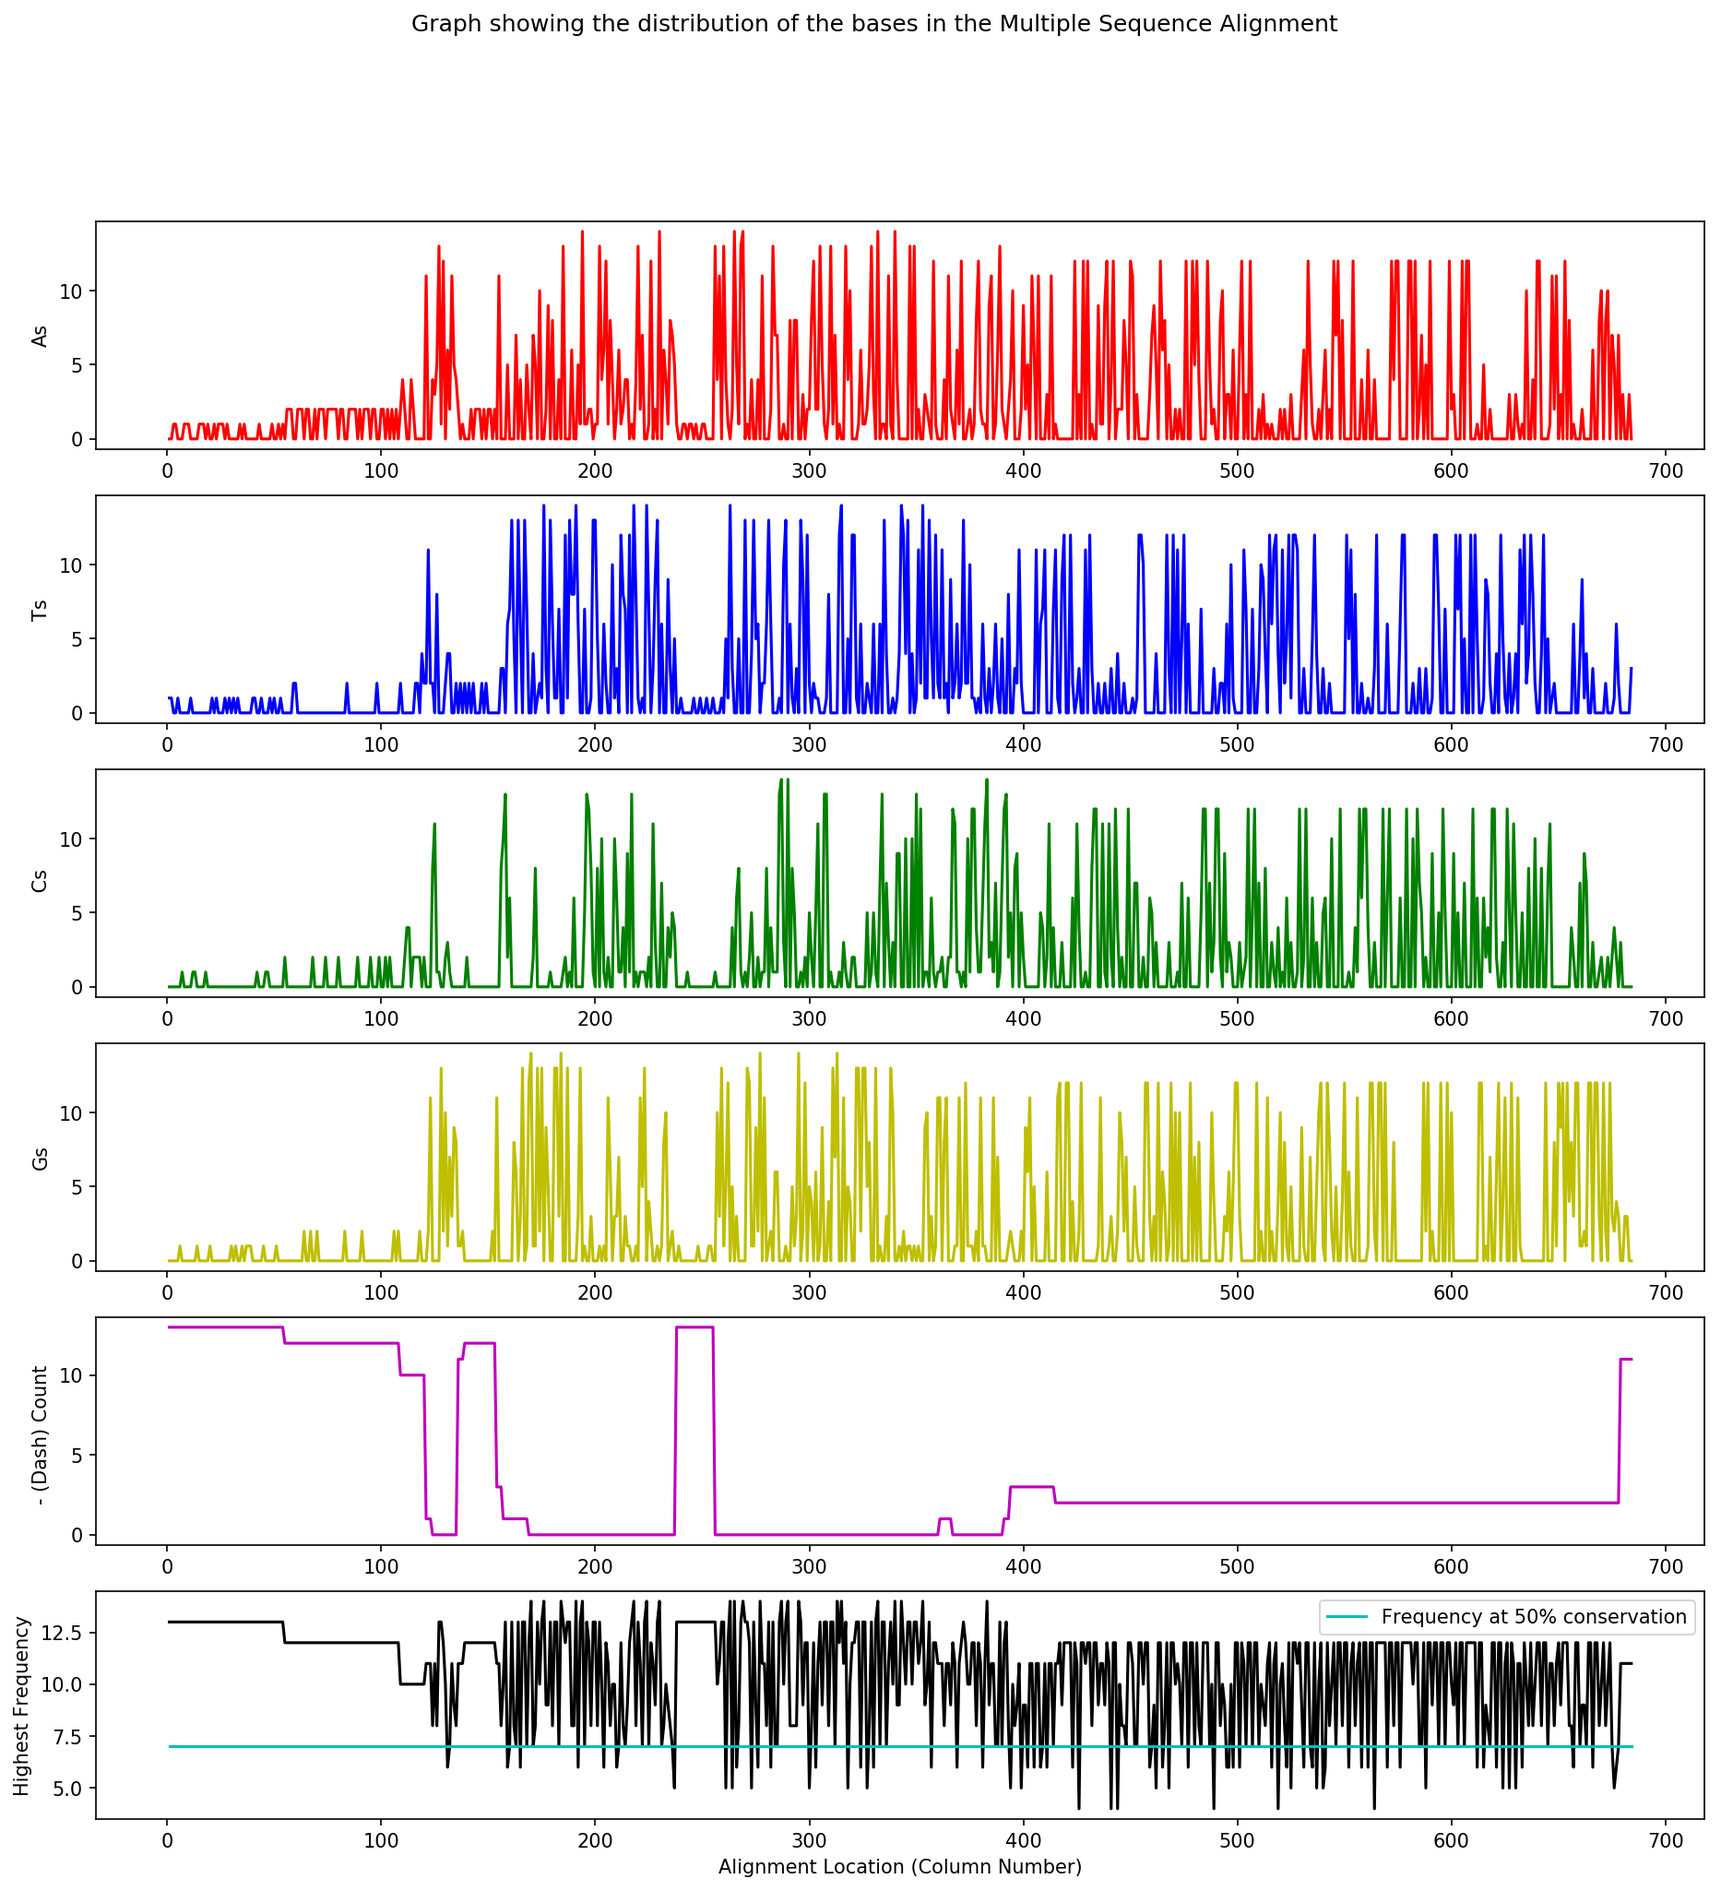
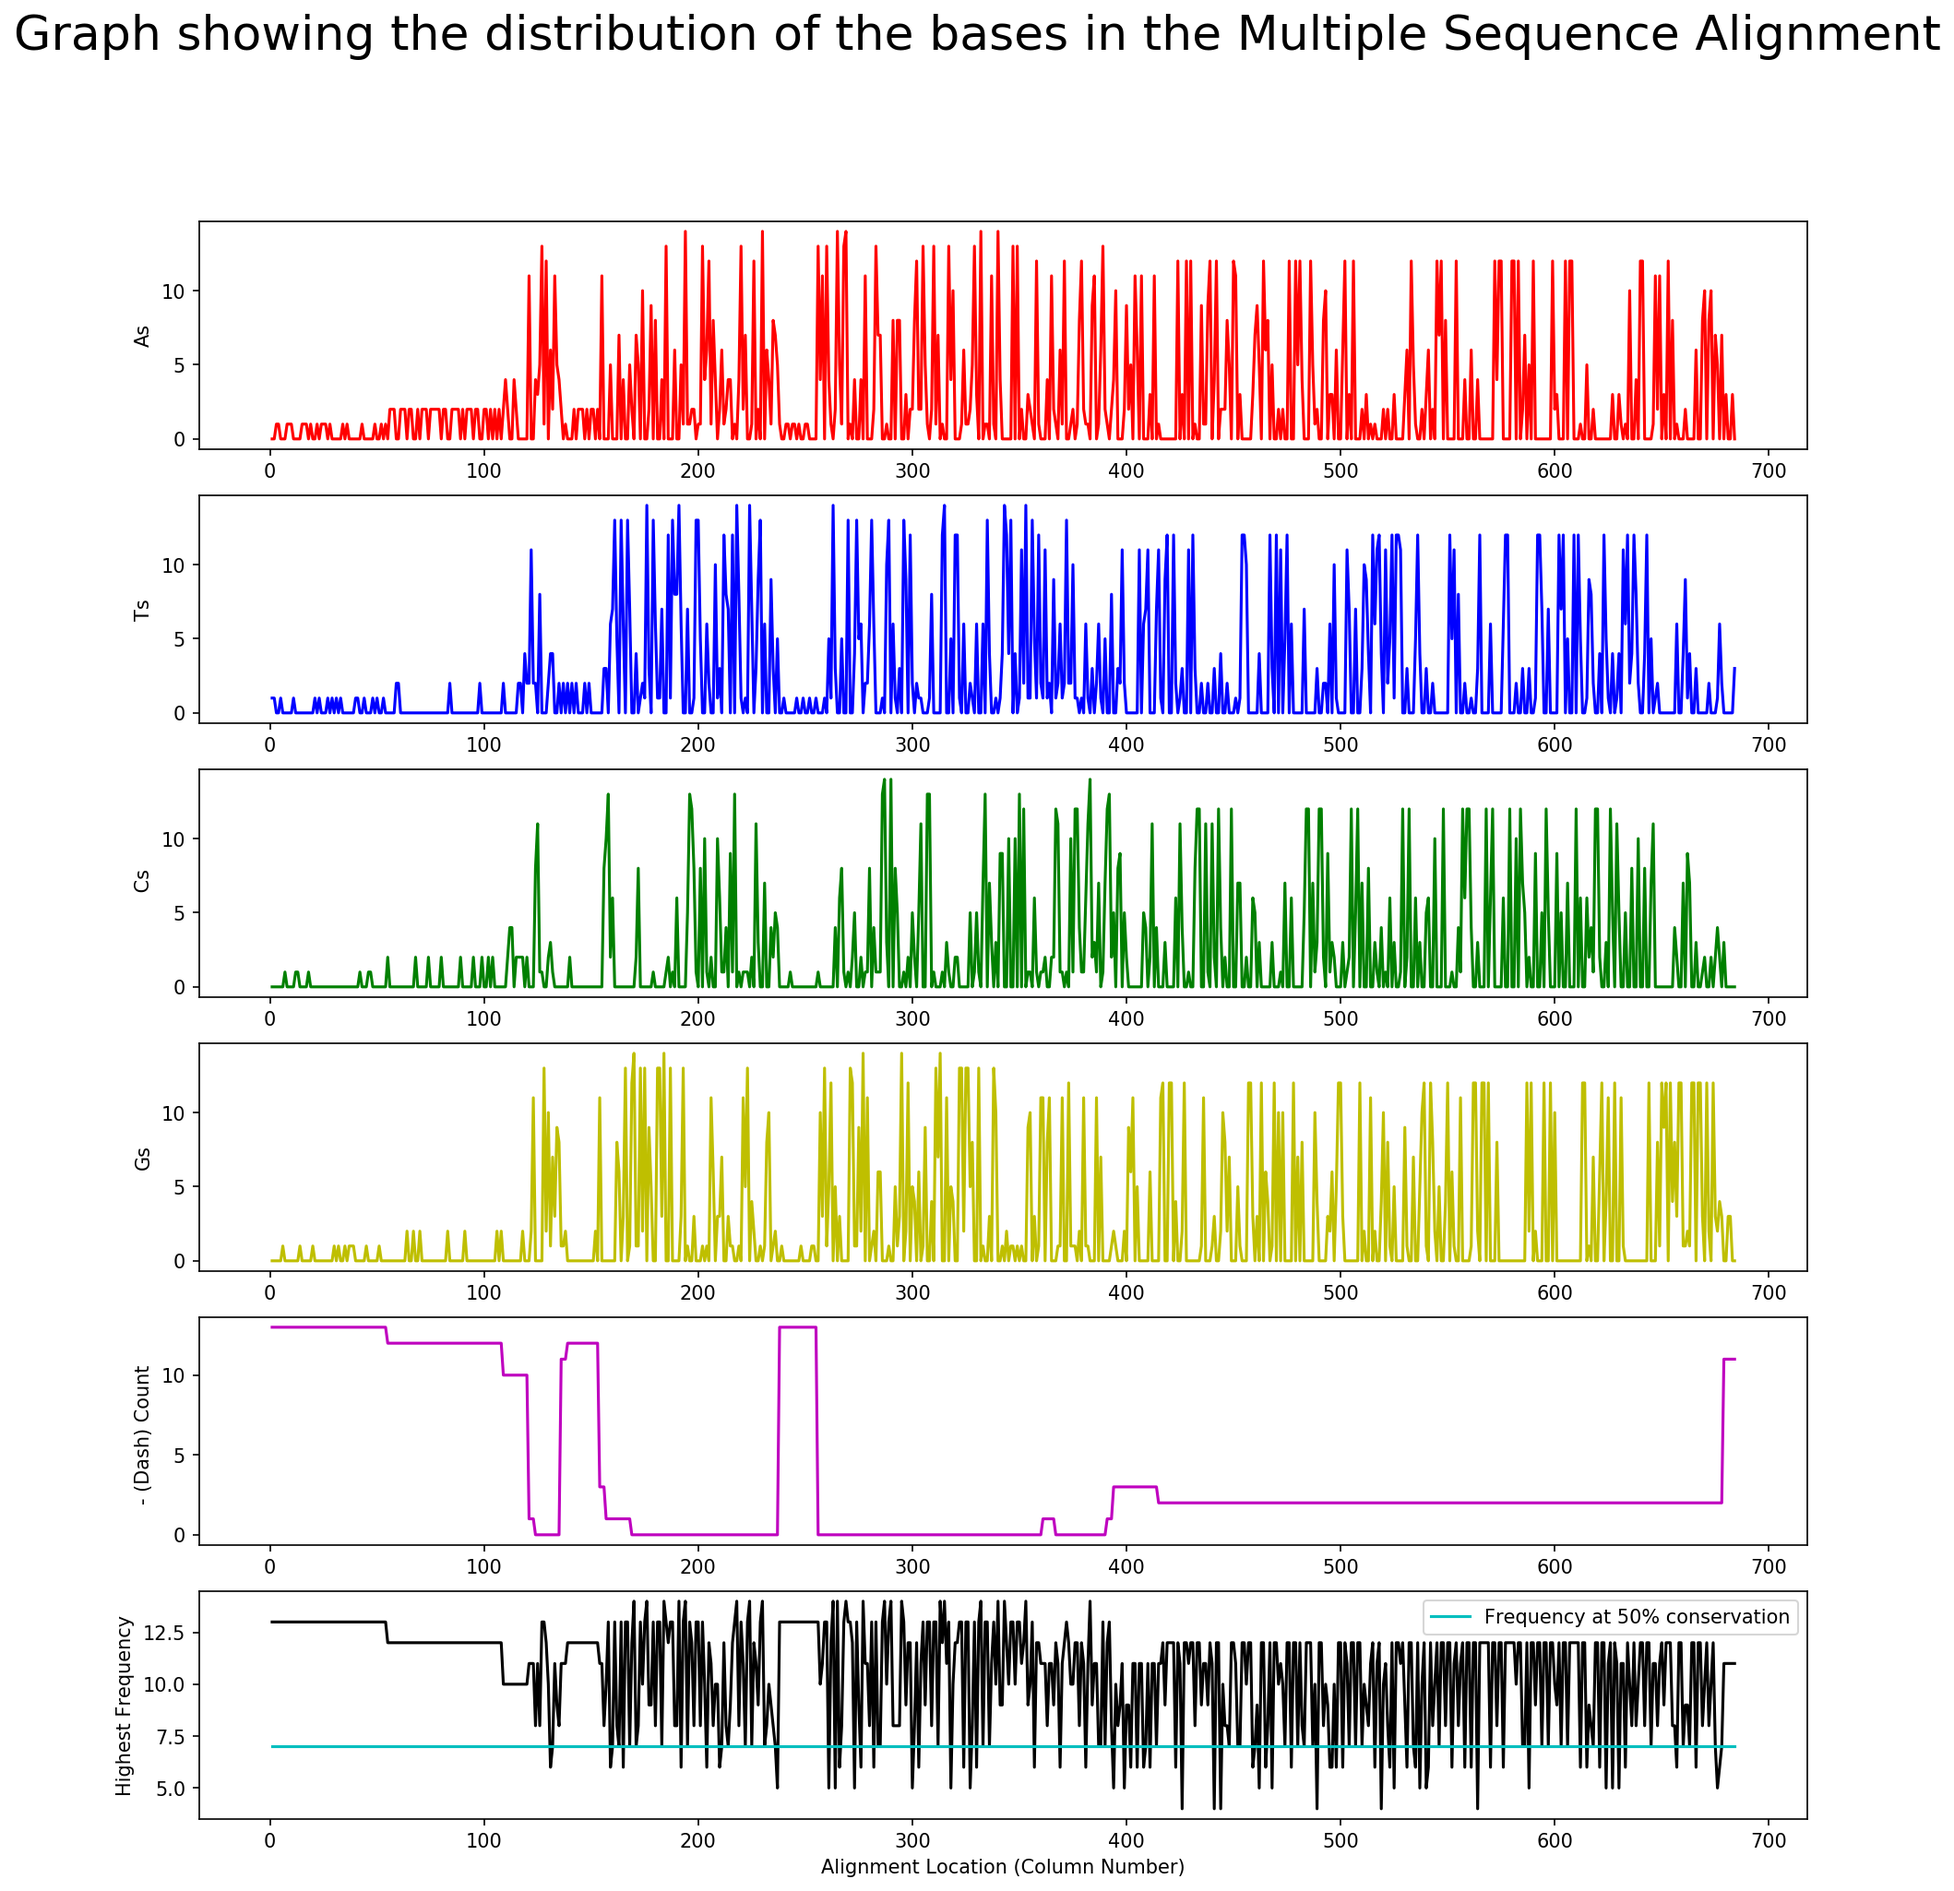
backup 2.0  April 27th, 2017

diff --git a/django_PriMSA/primsa/templates/primsa/intro.html b/django_PriMSA/primsa/templates/primsa/intro.html
@@ -38,19 +38,6 @@
       <!-- Page Content -->
    <div class="container">
 
-
-
-                   <div class="col-sm-4 col-lg-4 col-md-4">
-                       <div class="thumbnail">
-                           <img  src="/static/images/phylotree.png" alt="">
-                           <div class="caption">
-
-                               <h4 class='text-info'>Table of Results</h4>
-                               <p class="text-success">Contains the results from Primer3 in a tabular format. </p>
-                           </div>
-
-                       </div>
-                   </div>
                    <div class="col-sm-4 col-lg-4 col-md-4">
                        <div class="thumbnail">
                            <img src="/static/images/t_primer.png" alt="">
@@ -63,18 +50,10 @@
 
                        </div>
                    </div>
-                   <div class="col-sm-4 col-lg-4 col-md-4">
-                       <div class="thumbnail">
-                           <img src="/static/images/t_phylotree.png" alt="">
-                           <div class="caption">
 
-                                <h4 class='text-info'>Multiple Sequence Alignment Viewer </h4>
-                               <p class="text-success">Integrates MSAViewer to show the alignment of protein sequences translated from the
-                               mRNA sequences</p>
-                           </div>
 
-                       </div>
-                   </div>
+
+
                    <div class="col-sm-4 col-lg-4 col-md-4">
                        <div class="thumbnail">
                            <img src="/static/images/t_phylotree.png" alt="">
@@ -86,6 +65,43 @@
 
                        </div>
                    </div>
+
+                   <div class="col-sm-4 col-lg-4 col-md-4">
+                       <div class="thumbnail">
+                           <img  src="/static/images/t_frequency.png" alt="">
+                           <div class="caption">
+
+                               <h4 class='text-info'>Frequency Graph</h4>
+                               <p class="text-success">A bar diagram showing total number (frequency) in a triplet codon where conservation is less than 50% </p>
+                           </div>
+
+                       </div>
+                   </div>
+
+                   <div class="col-sm-4 col-lg-4 col-md-4">
+                       <div class="thumbnail">
+                           <img  src="/static/images/t_table.png" alt="">
+                           <div class="caption">
+
+                               <h4 class='text-info'>Table of Results</h4>
+                               <p class="text-success">Contains the results from Primer3 in a tabular format. </p>
+                           </div>
+
+                       </div>
+                   </div>
+                   <div class="col-sm-4 col-lg-4 col-md-4">
+                       <div class="thumbnail">
+                           <img src="/static/images/t_msa_viewer.png" alt="">
+                           <div class="caption">
+
+                                <h4 class='text-info'>Multiple Sequence Alignment Viewer </h4>
+                               <p class="text-success">Integrates MSAViewer to show the alignment of protein sequences translated from the
+                               mRNA sequences</p>
+                           </div>
+
+                       </div>
+                   </div>
+
                    <div class="col-sm-4 col-lg-4 col-md-4">
                        <div class="thumbnail">
                            <img src="/static/images/t_statistics.png" alt="">
@@ -98,6 +114,12 @@
 
                        </div>
                    </div>
+
+
+
+
+
+
 
 
 

diff --git a/django_PriMSA/primsa/templates/primsa/results.html b/django_PriMSA/primsa/templates/primsa/results.html
@@ -55,7 +55,12 @@
   <div class="col-lg-12 container-fluid">
 
     <div>
-        <p> <b> CONSENSUS SEQUENCE <b> <br> <br><b>Confidence Score: {{data.confidence_score}}</b> {{confidence_score}} <br> <b> ">>>>>": </b>Left primer
+        <p> <h2 class="text-center text-success"> Primers Aligned with the Consensus Sequences </h2> <br> <br>Confidence Score:<b class="text-success"> {{data.confidence_score}} </b> <br>
+          There were <b class="text-success">{{data.total_X}}</b> positions out of <b class="text-success">{{data.total_alignment}}</b> positions in the alignment with less than 50% conservation .
+          <br>
+          <br>
+
+          <b> ">>>>>": </b>Left primer
         <br> <b>"<<<<<" :</b> Right Primer <br>  </p>
 
 
@@ -65,11 +70,11 @@
     <div>
         <img src="/static/images/frequency.png" class= "img-fluid center-block" alt="primer_image"/>
     </div>
-
     <br>
     <br>
     <hr>
     <br>
+    <h2 class="text-success text-center"> Results from Primer 3 </h2>
     <br>
 
       <div class="table-responsive">
@@ -78,7 +83,7 @@
 
               <tr>
                 <th class="header"> Primer <i class="icon-sort"></i></th>
-                <th class="header"> Sequence<i class="icon-sort"></i></th>
+                <th class="header"> Sequence (5' to 3')<i class="icon-sort"></i></th>
                 <th class="header"> Melting Temperature<i class="icon-sort"></i></th>
                 <th class="header"> GC Percent (%)<i class="icon-sort"></i></th>
                 <th class="header"> End Stability (Delta G)<i class="icon-sort"></i></th>
@@ -92,7 +97,16 @@
 
             {% for key, value in data.items %}
             <tr>
-                {% if key == 'Left' or key=='Right' %}
+                {% if key == "Left"  %}
+                <td>{{key}}</td>
+                <td>{{value.0}}</td>
+                <td>{{value.1}}</td>
+                <td>{{value.2}}</td>
+                <td>{{value.3}}</td>
+                <td>{{value.4}}</td>
+                {% endif %}
+
+                {% if key == "Right"  %}
                 <td>{{key}}</td>
                 <td>{{value.0}}</td>
                 <td>{{value.1}}</td>
@@ -106,10 +120,14 @@
           </tbody>
           </table>
           <br><br>
-          <p class="text-primary"> <b>The product size of the primer pair is: </b> data.product_size
-        </div>
+          <h3> The product size of the primer pair is: <b class="text-success"> {{data.product_size}}</b></h3>
           <hr>
-
+          <br>
+        </div>
+        <br>
+          <hr>
+          <h2 class="text-success text-center"> Multiple Sequence Alignment Viewer </h2>
+          <br>
           <div id='msa_viewer_mRNA'></div>
 
           <script>
@@ -132,6 +150,9 @@
           </script>
 
           <hr>
+          <br>
+          <h2 class="text-success text-center"> Newick Tree </h2>
+          <br>
 
           <div>
               <img src="/static/images/phylotree.png" class= "img-fluid center-block" alt="phylogenetic tree"/>
@@ -139,6 +160,8 @@
 
 
           <hr>
+          <br>
+
           <div>
               <img src="/static/images/statistics.png" class= "img-fluid center-block" alt="statistics"/>
           </div>

diff --git a/django_PriMSA/primsa/views.py b/django_PriMSA/primsa/views.py
@@ -510,7 +510,7 @@ def tree_draw_newick():
 
     plt.figure(figsize=(15,15))
 
-    plt.suptitle("Graph showing the distribution of the bases in the Multiple Sequence Alignment")
+    plt.suptitle("Graph showing the distribution of the bases in the Multiple Sequence Alignment", fontsize=25)
     plt.subplot(6,1,1)
 
     plt.plot(x_val, y_A,'r')
@@ -559,7 +559,7 @@ def tree_draw_newick():
     parsed_results['Left']= left_primer
     parsed_results['Right']= right_primer
     parsed_results['product_size']= int(pair_primer)
-    parsed_results['confidence_score']= confidence_score_5
+    parsed_results['confidence_score']= round(confidence_score_5,2)
     parsed_results['total_X']= len(indices_X_5)
     parsed_results['total_alignment']= num_col_overlap
 
